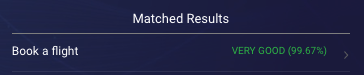
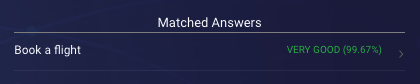
Partial update to Question Tester due to new UI copy

diff --git a/pages/Documents/ConversationalAI/KnowledgeBase/using-intents-with-kbs.md b/pages/Documents/ConversationalAI/KnowledgeBase/using-intents-with-kbs.md
@@ -51,22 +51,22 @@ After you've added your content and linked it to intents, tune the knowledge bas
 **To tune a knowledge base**
 
 1. Open the knowledge base.
-2. In the Test User Input panel on the right, specify the following:
+2. In the **Question Tester** on the right, specify the following:
 
     <img class="fancyimage" style="width:400px" src="img/ConvoBuilder/kb_test1.png">
 
-    * **User Text**: Enter the consumer utterance for which you want to find matching articles.
+    * **Question**: Enter the consumer utterance for which you want to find matching articles.
     * **Search Mode**: Select the type of search to perform. For explanations of each search mode, see *Search modes* farther below in this topic.
     * **Confidence**: Select the NLU confidence threshold that an article must meet for it to be returned as a result. For more on thresholds, see *Scoring and thresholds* farther below in this topic.
     * **# of Results**: Select how many results to return.
     * **Article Status**: Select the status of the artice, either Active, Inactive, or All. This option is only available for internal knowledge bases.
 
 3. Click **Find Articles**.
-4. Review the results under **Matched Results**.
+4. Review the results under **Matched Answers**.
 
     <img class="fancyimage" style="width:400px" src="img/ConvoBuilder/kb_test2.png">
 
-5. You can click on an article title to see the article’s information, and toggle between this and the article’s JSON.
+5. You can click on an article title to see the article, and toggle between this and its JSON.
 
     <img class="fancyimage" style="width:400px" src="img/ConvoBuilder/kb_test3.png">
     <img class="fancyimage" style="width:400px" src="img/ConvoBuilder/kb_test4.png">
